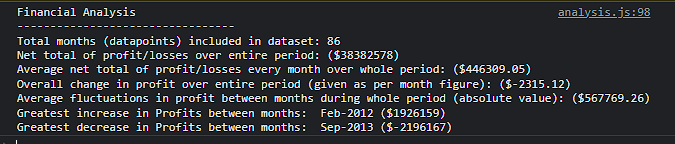
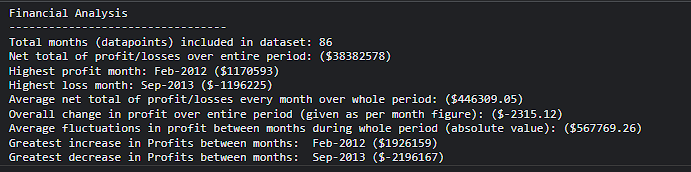
added highest profit month and highest loss month

diff --git a/analysis.js b/analysis.js
@@ -26,6 +26,13 @@ for (i = 0; i < finances.length; i++) {
     monthly_money[i] = finances[i][1];
 }
 
+// Highest profit month
+var highest_profit_month = finances[monthly_money.indexOf(Math.max(...monthly_money))];
+var highest_profit_month_array = "Highest profit month: " + highest_profit_month[0] + " ($" + highest_profit_month[1] + ")";
+
+// Highest loss month
+var highest_loss_month = finances[monthly_money.indexOf(Math.min(...monthly_money))];
+var highest_loss_month_array = "Highest loss month: " + highest_loss_month[0] + " ($" + highest_loss_month[1] + ")";
 
 // change in monthly_money between months
 // initialise chng_in_monthly_money
@@ -33,7 +40,7 @@ var chng_in_monthly_money = [];
 
 // calculate array of monthly change - from month to month
 // initialise from second month onwards
-for (i = 1; i < monthly_money.length; i++ ) {
+for (i = 1; i < monthly_money.length; i++) {
     chng_in_monthly_money[i - 1] = monthly_money[i] - monthly_money[i - 1];
 }
 
@@ -46,7 +53,7 @@ for (i = 0; i < chng_in_monthly_money.length; i++) {
     ttl_chng_in_monthly_money += chng_in_monthly_money[i];
 }
 
-avg_chng_in_monthly_money = ttl_chng_in_monthly_money/(monthly_money.length-1);
+avg_chng_in_monthly_money = ttl_chng_in_monthly_money / (monthly_money.length - 1);
 // below is commented out simple way of calculating the avg_chng_in_monthly_money
 // var avg_chng_in_monthly_money = (finances[finances.length - 1][1] - finances[0][1]) / (total_months - 1);
 // appropriate rounding of currency
@@ -83,16 +90,18 @@ var loss_array = "Greatest decrease in Profits between months:  " + finances[los
 
 // printing analysis to console
 var finances_analysis =
-`Financial Analysis
+    `Financial Analysis
 ---------------------------------
 ` + total_months_array + `
 ` + net_total_money_array + `
+` + highest_profit_month_array + `
+` + highest_loss_month_array + `
 ` + avg_monthly_net_array + `
 ` + change_in_period_per_month_array + `
 ` + avg_monthly_money_fluc_array + `
 ` + profit_array + `
 ` + loss_array
-;
+    ;
 
 
 console.log(finances_analysis)
